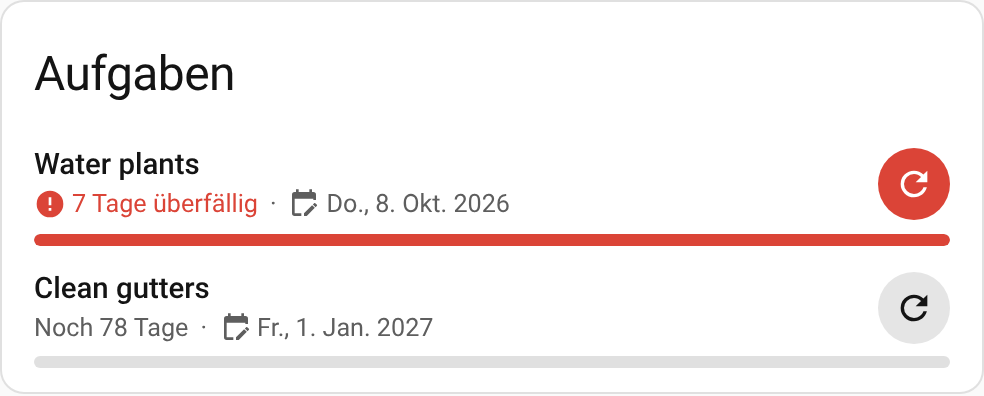
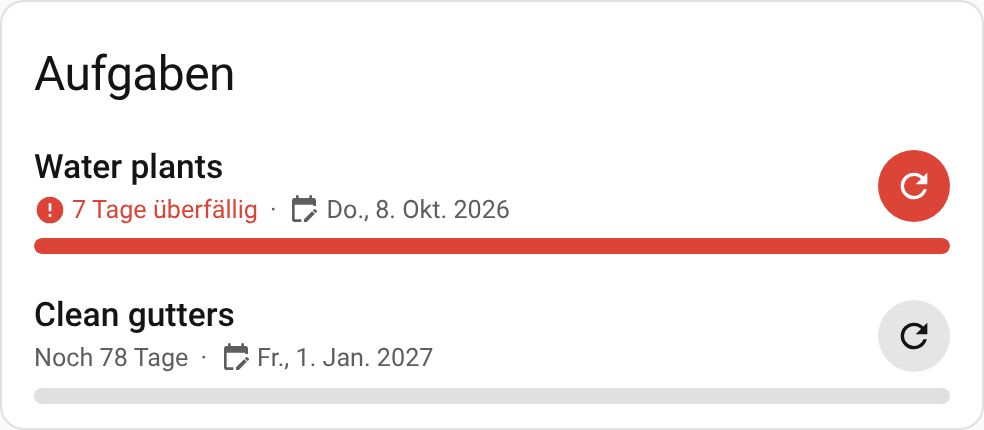
Release 1.2.1: bigger chore names, thicker progress bar, more space
Claude-Session: https://claude.ai/code/session_01UKpjZwQJMAVRJ78mBzY4ZQ

diff --git a/custom_components/chore_reminder/frontend/chore-reminder-card.js b/custom_components/chore_reminder/frontend/chore-reminder-card.js
@@ -13,7 +13,7 @@
  */
 
 const DOMAIN = "chore_reminder";
-const CARD_VERSION = "1.2.0";
+const CARD_VERSION = "1.2.1";
 
 const STRINGS = {
   en: {
